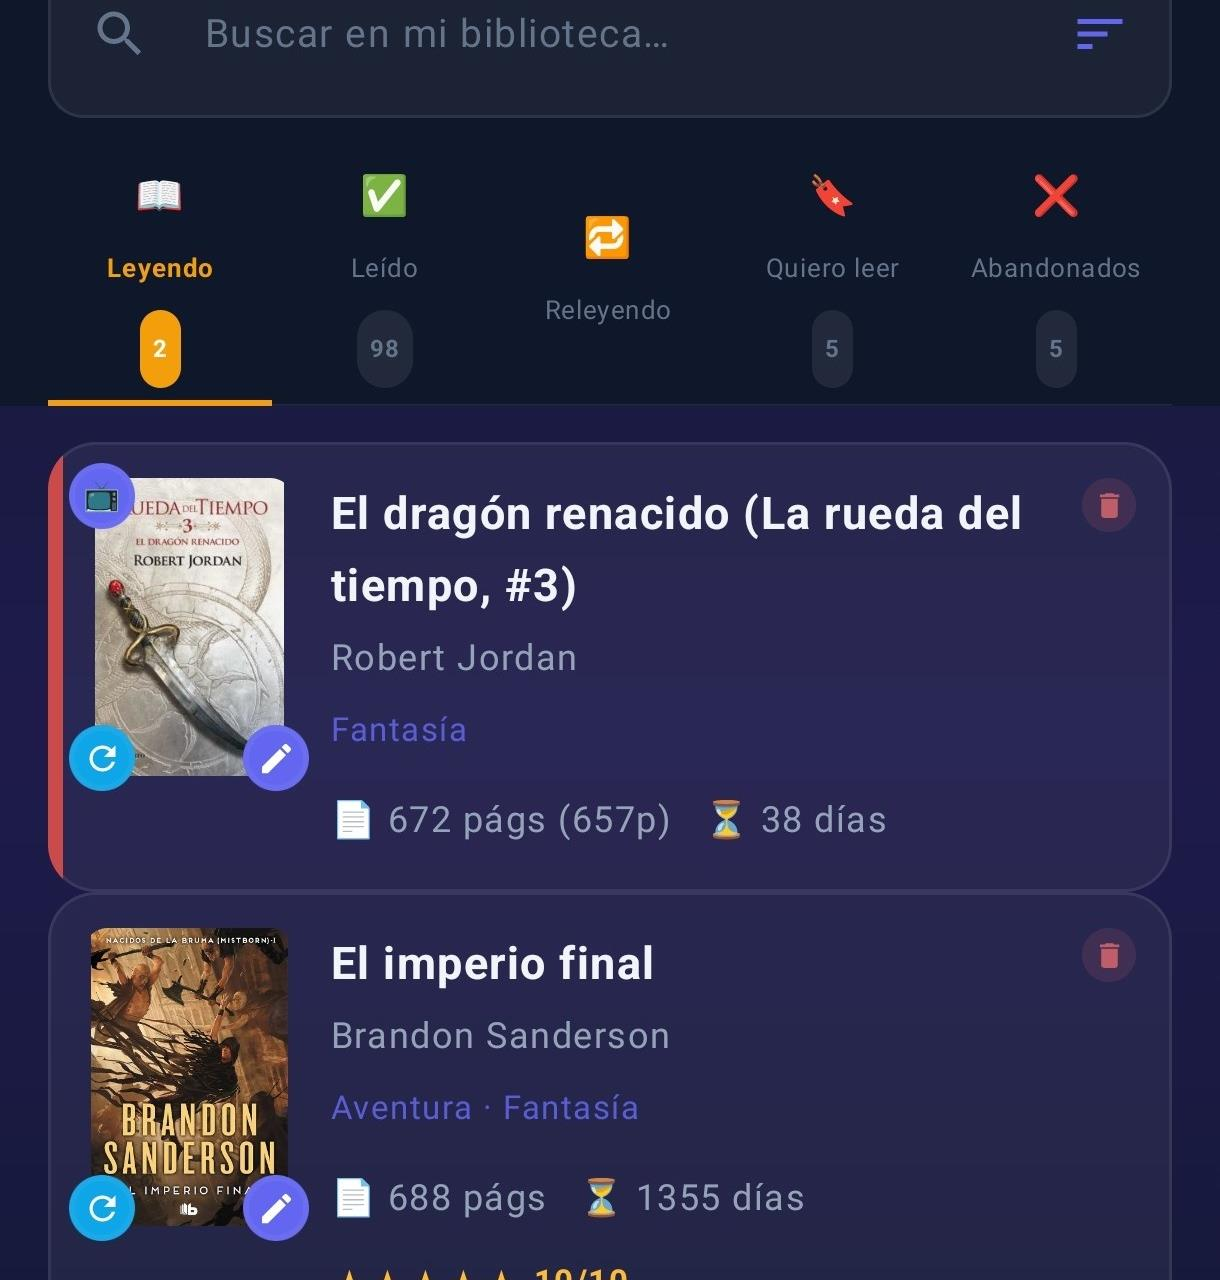
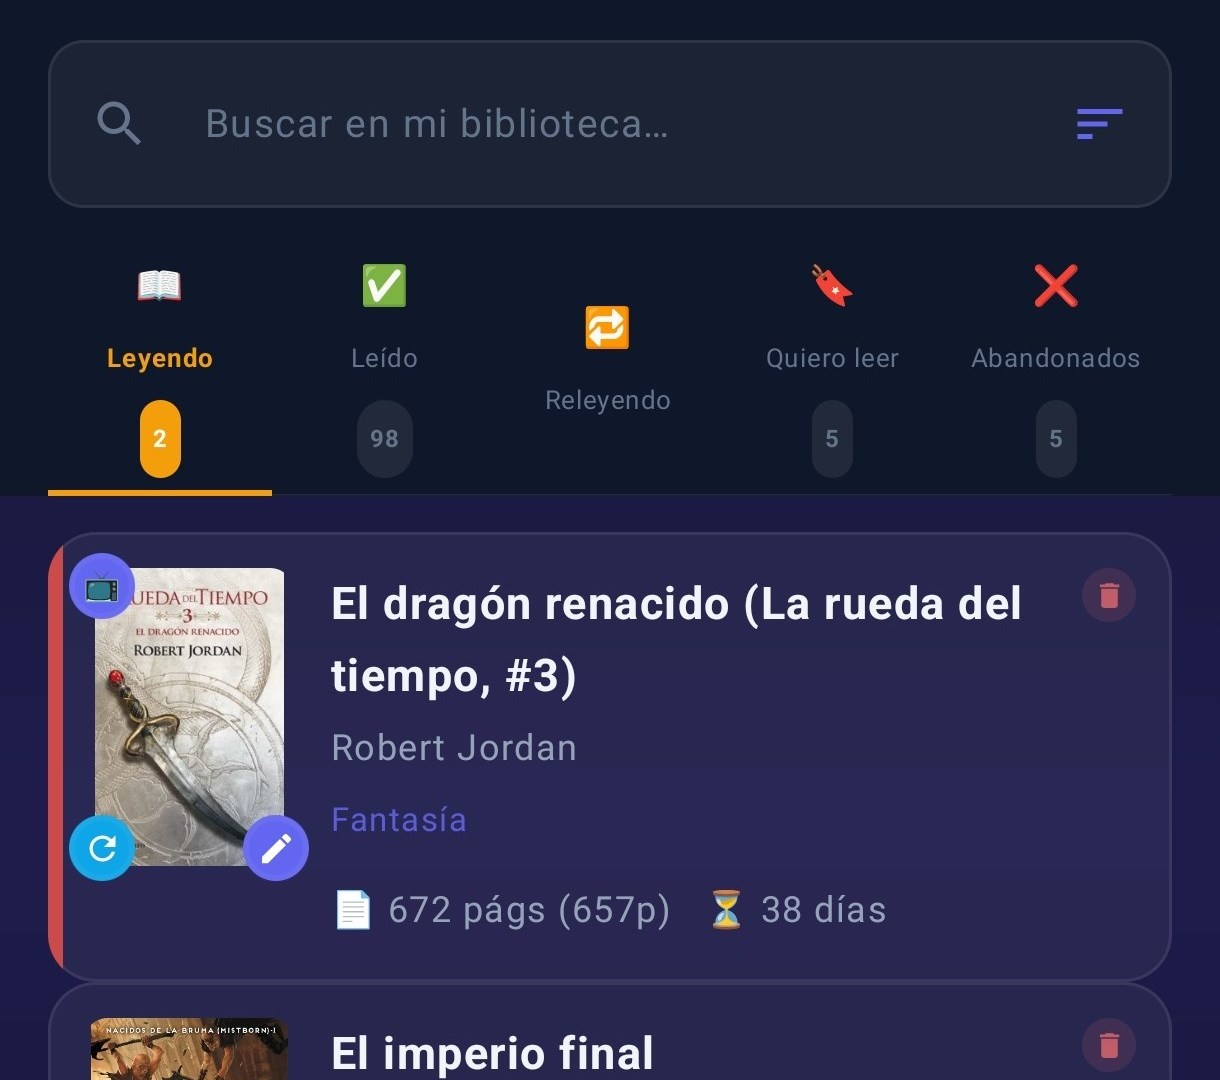
revert: library bento back to 1080px cover (no crop needed)

diff --git a/styles.css b/styles.css
@@ -905,9 +905,9 @@ h2 { font-size: 20px; font-weight: 700; color: var(--text); margin-bottom: 10px;
     object-fit: contain;
     object-position: center;
 }
-/* Library: contain — 1220×1280, shows tabs+book1+book2 with ~27px side bars */
+/* Library: cover — ratio 1220:1080 ≈ card ratio 340:300, prácticamente sin recorte */
 .bf-lib .bf-media img {
-    object-fit: contain;
+    object-fit: cover;
     object-position: top center;
 }
 /* Stats: contain — imagen 1220×1150, scaleH gana → 12 meses completos, ~11px barras */
@@ -1001,10 +1001,10 @@ h2 { font-size: 20px; font-weight: 700; color: var(--text); margin-bottom: 10px;
         background: var(--card);
         padding-top: 16px;
     }
-    /* En móvil: timer cover, bento side cards mantienen contain */
-    .bf-timer .bf-media video { object-fit: cover; object-position: top center; }
+    /* En móvil las cards son landscape → cover muestra más contenido que contain */
+    .bf-timer .bf-media video,
     .bf-lib .bf-media img,
-    .bf-stats .bf-media img { object-fit: contain; object-position: top center; }
+    .bf-stats .bf-media img { object-fit: cover; object-position: top center; }
     .bf-lib .bf-media,
     .bf-stats .bf-media { height: 340px; }
 }